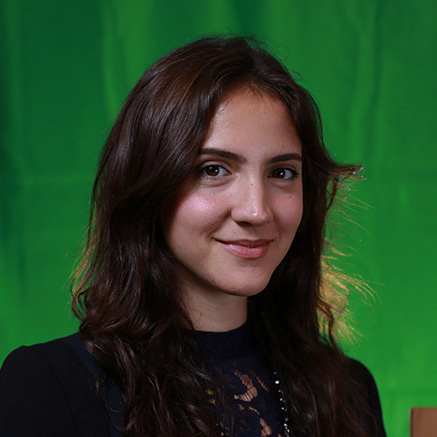
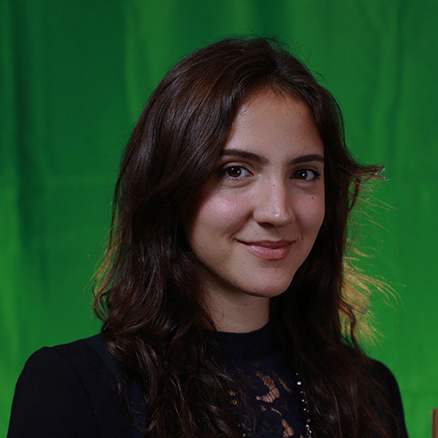
fix

diff --git a/templates/order_style.html b/templates/order_style.html
@@ -382,7 +382,7 @@
 				<div class="col-sm-4">
 					<div class="hs_margin">
 						<div class="text-center">
-						<a data-toggle="modal" data-target="#free_example" style="cursor:pointer;"><img src="{% static 'img/headshots/examples/free/white7.jpg' %}" class="full_width hs_shadow_border" id="free_hs"></a>
+						<a data-toggle="modal" data-target="#free_example" style="cursor:pointer;"><img src="{% static 'img/headshots/examples/free/white5.jpg' %}" class="full_width hs_shadow_border" id="free_hs"></a>
 						</div>
 					</div>
 
@@ -1852,7 +1852,7 @@
   	$('#free_before').removeClass('before_after_active');
   	
 
-  	$('#free_hs').attr('src', '{% static "img/headshots/examples/free/white7.jpg" %}')
+  	$('#free_hs').attr('src', '{% static "img/headshots/examples/free/white5.jpg" %}')
   });
 
 {% endblock %}
